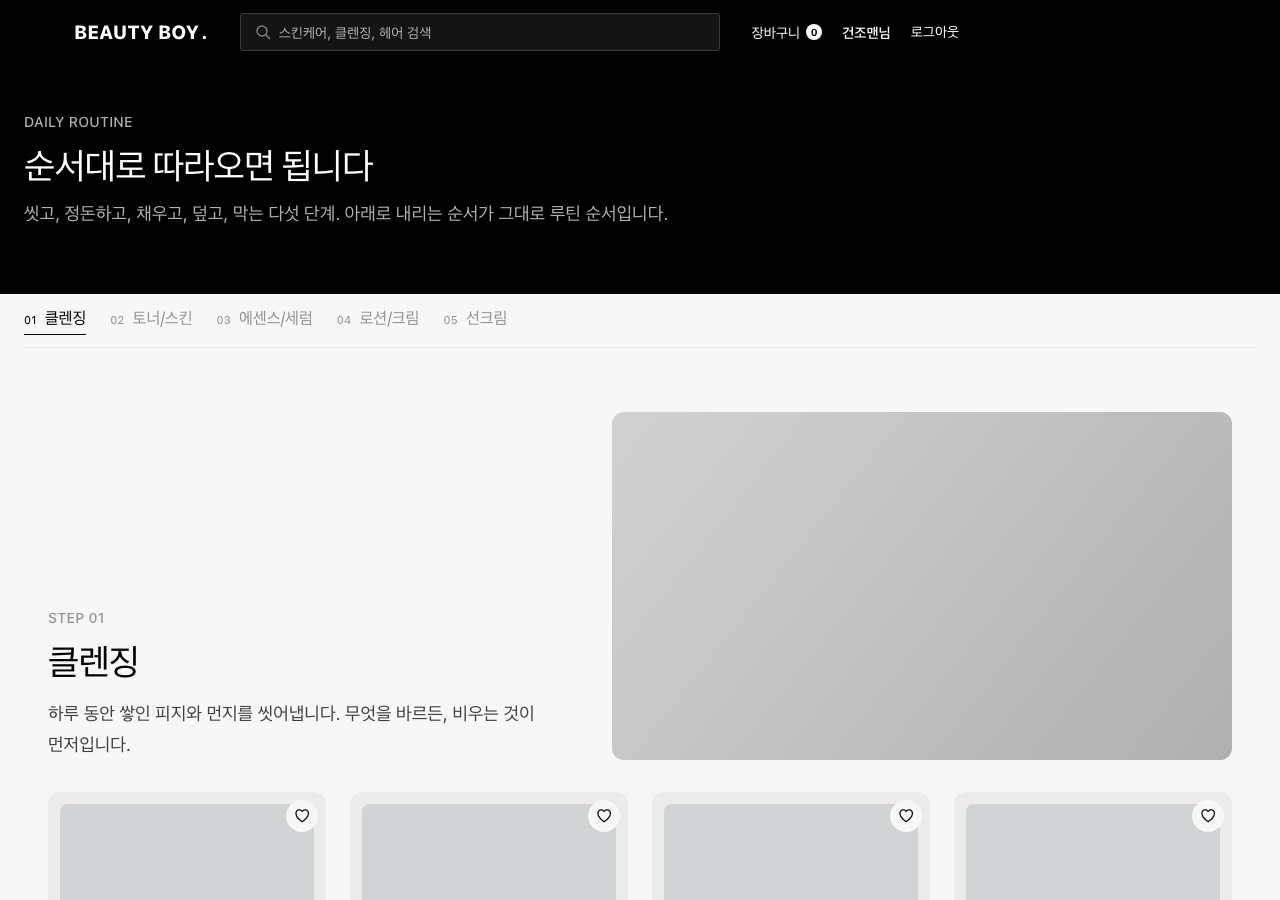
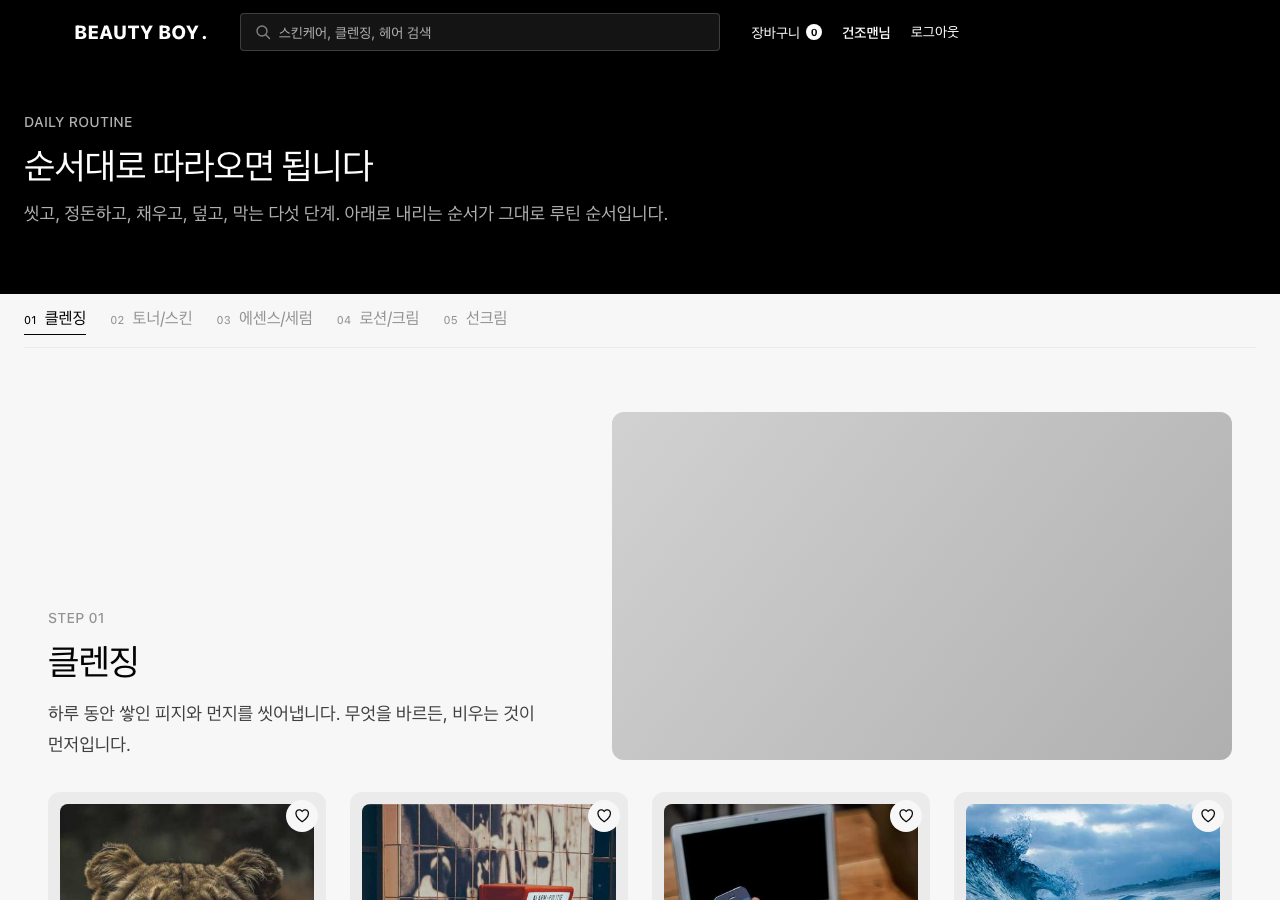
docs(screenshots): 리뷰 반영 재재촬영 — 04 fullPage, 05 clip, 01 재시도 + 알려진 한계 기록
- 04-cart.png: 궁합 배너로 길어진 페이지를 fullPage로 찍어 합계·주문하기 버튼이
  잘리지 않게 함(이전 라운드는 뷰포트 크롭이라 CTA가 밖으로 밀려났었다).
- 05-order-complete.png: #root의 전역 min-height:100svh(index.css) 때문에 fullPage로도
  빈 여백이 안 줄어, "쇼핑 계속하기" 링크 하단 40px까지 clip해 여백을 줄임.
- 01-main.png: networkidle + 2초 대기 후 재시도. 하단 상품 카드는 picsum.photos 외부 URL
  시드가 이 환경에서 로드되지 않아 여전히 회색 폴백 — 실패로 보지 않고 그대로 둠(재시도 남발 금지).
- roadmap.md: "알려진 한계"에 picsum 외부 URL 시드 한계 추가, "2차로 남는 것"에 로컬
  플레이스홀더 에셋 교체 한 줄 추가.

Changed region(s): [[0.2812, 0.8711, 0.7188, 1.0], [0.75, 0.8711, 0.9688, 1.0], [0.0312, 0.8711, 0.25, 1.0]]

diff --git a/docs/plans/2026-07-23-roadmap.md b/docs/plans/2026-07-23-roadmap.md
@@ -303,6 +303,9 @@ Wave 4 종료 시점에 1차 범위 밖으로 확정해 미루는 항목이다. 
 - **배송 상태 전이 스케줄러** — 배송 상태를 자동으로 굴리는 배치/스케줄러가 없다.
 - **효과 태그(`goods_tag`)** — 위 "Wave 3에서 Wave 4로 넘기는 것"의 마지막 미해소 항목. 데이터
   소스(테이블·시드 또는 관리자 입력)부터 필요하다.
+- **상품 썸네일 시드를 로컬 플레이스홀더 에셋으로 교체** — 아래 "알려진 한계"의 `picsum.photos`
+  외부 URL 항목 참고. `V12__seed_catalog.sql`은 Flyway 동결 대상이라 Task 4-17a에서 손대지
+  않았다.
 
 ### 알려진 한계
 
@@ -324,6 +327,12 @@ Wave 4 종료 시점에 1차 범위 밖으로 확정해 미루는 항목이다. 
 - **여러 탭에서 동시에 하드 네비게이션하면 늦은 탭이 로그인 화면을 볼 수 있다** — 새로고침
   1회로 복구되지만, 리프레시 토큰 동시성(Task 4-16a로 409 처리까지는 됐다) 여진이 프론트 쪽에
   UX 흠으로 남아 있다.
+- **상품 썸네일 시드(`V12__seed_catalog.sql`)가 외부 `picsum.photos` URL을 참조해 오프라인·CI에서
+  비결정적으로 깨진다** — `GoodsCard.tsx`의 `onError` 폴백이 발동해 회색 박스로 대체된다.
+  `frontend/src/features/routine/steps.ts` 주석이 명시한 "외부 URL을 직접 참조하지 않는다 —
+  오프라인·CI에서 깨진다"는 프로젝트 원칙을 goods 시드가 위반하고 있다. Flyway가 동결 대상이라
+  Task 4-17a에서는 고치지 않았다 — 로컬 플레이스홀더 에셋으로 교체하는 것이 후속 과제다
+  (`docs/screenshots/01-main.png`의 하단 상품 카드 4개가 이 상태로 촬영돼 있다).
 
 ## Wave 0 실행 프롬프트 (터미널 1개, 직렬)
 
